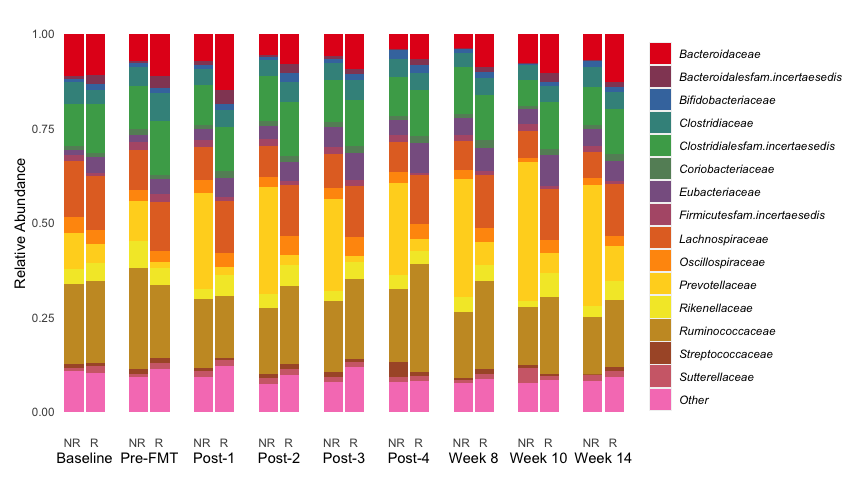
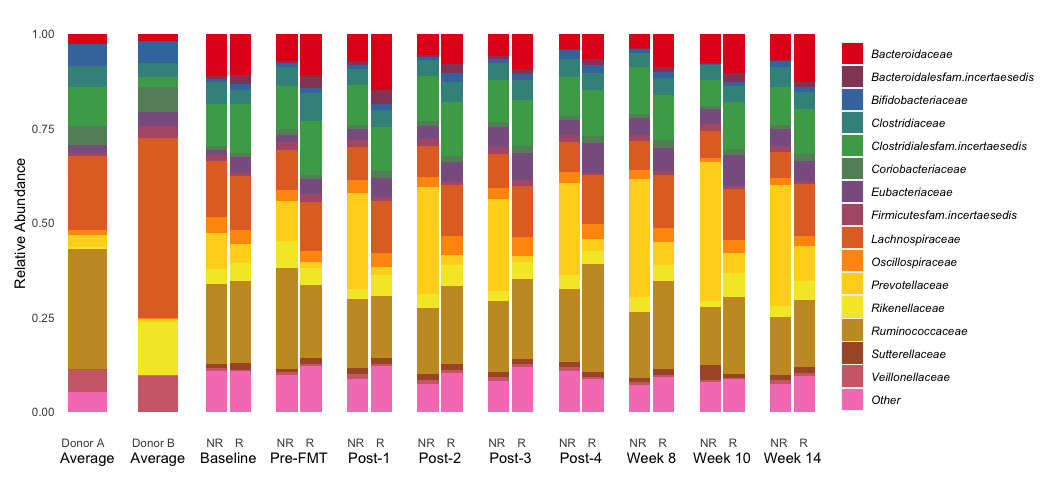
Commit FECBUD Average composition

diff --git a/Scripts/Average_Microbiota_Composition.md b/Scripts/Average_Microbiota_Composition.md
@@ -41,15 +41,10 @@ physeq_mOTU.rel
     ## sample_data() Sample Data:       [ 207 samples by 17 sample variables ]
     ## tax_table()   Taxonomy Table:    [ 95 taxa by 6 taxonomic ranks ]
 
-``` r
-# Remove donors
-physeq_mOTU.rel = subset_samples( physeq_mOTU.rel, subject_id != "Donor A" )
-physeq_mOTU.rel = subset_samples( physeq_mOTU.rel, subject_id != "Donor B" )
-```
+## Subset data and select core patient micorbiota
 
 ``` r
 temp <- aggregate_top_taxa2( physeq_mOTU.rel, 15, "family" )
-# temp = microbiome::merge_taxa2( temp, taxa = c( "Unknown", "Other" ), name = "Other" )
 temp@otu_table %>% rownames()
 ```
 
@@ -60,7 +55,7 @@ temp@otu_table %>% rownames()
     ##  [9] "Lachnospiraceae"                "Oscillospiraceae"              
     ## [11] "Other"                          "Prevotellaceae"                
     ## [13] "Rikenellaceae"                  "Ruminococcaceae"               
-    ## [15] "Streptococcaceae"               "Sutterellaceae"
+    ## [15] "Sutterellaceae"                 "Veillonellaceae"
 
 ``` r
 temp@otu_table <- temp@otu_table[ c( 1:10, 12:16, 11 ), ]
@@ -68,11 +63,17 @@ temp
 ```
 
     ## phyloseq-class experiment-level object
-    ## otu_table()   OTU Table:         [ 16 taxa and 180 samples ]
-    ## sample_data() Sample Data:       [ 180 samples by 17 sample variables ]
+    ## otu_table()   OTU Table:         [ 16 taxa and 207 samples ]
+    ## sample_data() Sample Data:       [ 207 samples by 17 sample variables ]
     ## tax_table()   Taxonomy Table:    [ 16 taxa by 2 taxonomic ranks ]
 
 ``` r
+temp.donorA = temp %>%
+  ps_filter( subject_id == "Donor A"  )
+
+temp.donorB = temp %>%
+  ps_filter( subject_id == "Donor B"  )
+
 temp.base = temp %>%
   ps_select( clinical_outcome_wk14, timepoint ) %>%
   ps_filter( timepoint == "Baseline" )
@@ -116,7 +117,7 @@ mycolors <- colorRampPalette( brewer.pal( 8, "Set1" ))( 16 )
 ```
 
 ``` r
-p1 = plot_composition( temp.base, average_by = "clinical_outcome_wk14" ) +
+pdonorA = plot_composition( temp.donorA, average_by = "treated_with_donor" ) +
   theme( legend.position = "none", axis.text.x = element_text( angle = 0, hjust = 0.6 ),
         # axis.text = element_text( size = 8 ),
         # axis.title.x = element_text( size = 8 ),
@@ -124,7 +125,41 @@ p1 = plot_composition( temp.base, average_by = "clinical_outcome_wk14" ) +
     panel.grid.minor = element_blank(),
     panel.background = element_blank(),
     axis.ticks = element_blank()) + 
-  labs(x = "Baseline", y = "Relative Abundance" ) + 
+  labs( x = "Average", y = "Relative Abundance" ) + 
+  scale_fill_manual( values = mycolors ) + 
+  scale_x_discrete( labels = c( "Donor A" )) + 
+  ylim( 0, 1.0 )
+
+pdonorB = plot_composition( temp.donorB, average_by = "treated_with_donor" ) +
+  theme( axis.text.x = element_text( angle = 0, hjust = 0.6 ),
+        legend.text = element_text( face = "italic" ),
+        axis.title.y = element_blank(), 
+        axis.ticks.y = element_line( "white" ),
+        axis.text.y = element_blank(),
+        # axis.title.x = element_text(size = 8),
+        legend.position = "none",
+        panel.grid.major = element_blank(),
+    panel.grid.minor = element_blank(),
+    panel.background = element_blank(),
+    axis.ticks = element_blank()) + 
+  labs( x = "Average", y = "Relative Abundance" ) + 
+  scale_fill_manual( values = mycolors ) + 
+  scale_x_discrete( labels = c( "Donor B" )) + 
+  ylim( 0, 1.0 )
+
+p1 = plot_composition( temp.base, average_by = "clinical_outcome_wk14" ) +
+  theme( axis.text.x = element_text( angle = 0, hjust = 0.6 ),
+        legend.text = element_text( face = "italic" ),
+        axis.title.y = element_blank(), 
+        axis.ticks.y = element_line( "white" ),
+        axis.text.y = element_blank(),
+        # axis.title.x = element_text(size = 8),
+        legend.position = "none",
+        panel.grid.major = element_blank(),
+    panel.grid.minor = element_blank(),
+    panel.background = element_blank(),
+    axis.ticks = element_blank()) + 
+  labs( x = "Baseline", y = "Relative Abundance" ) + 
   scale_fill_manual( values = mycolors ) + 
   scale_x_discrete( labels = c( "NR", "R" )) + 
   ylim( 0, 1.0 )
@@ -259,6 +294,7 @@ p9 = plot_composition( temp.wk14, average_by = "clinical_outcome_wk14" ) +
         # legend.key.height = unit( 0.5, "cm" ), 
         # legend.key.width = unit( 0.5, "cm" ),
          panel.grid.major = element_blank(),
+          legend.position = "right",
     panel.grid.minor = element_blank(),
     panel.background = element_blank(),
     axis.ticks = element_blank()) + 
@@ -269,7 +305,7 @@ p9 = plot_composition( temp.wk14, average_by = "clinical_outcome_wk14" ) +
 ```
 
 ``` r
-plot.compositions = p1 + p2 + p3 + p4 + p5 + p6 + p7 + p8 + p9 + plot_layout( nrow = 1 )
+plot.compositions = (pdonorA + pdonorB + p1 + p2 + p3 + p4 + p5 + p6 + p7 + p8 + p9) + plot_layout( nrow = 1 ) 
 plot.compositions
 ```
 
